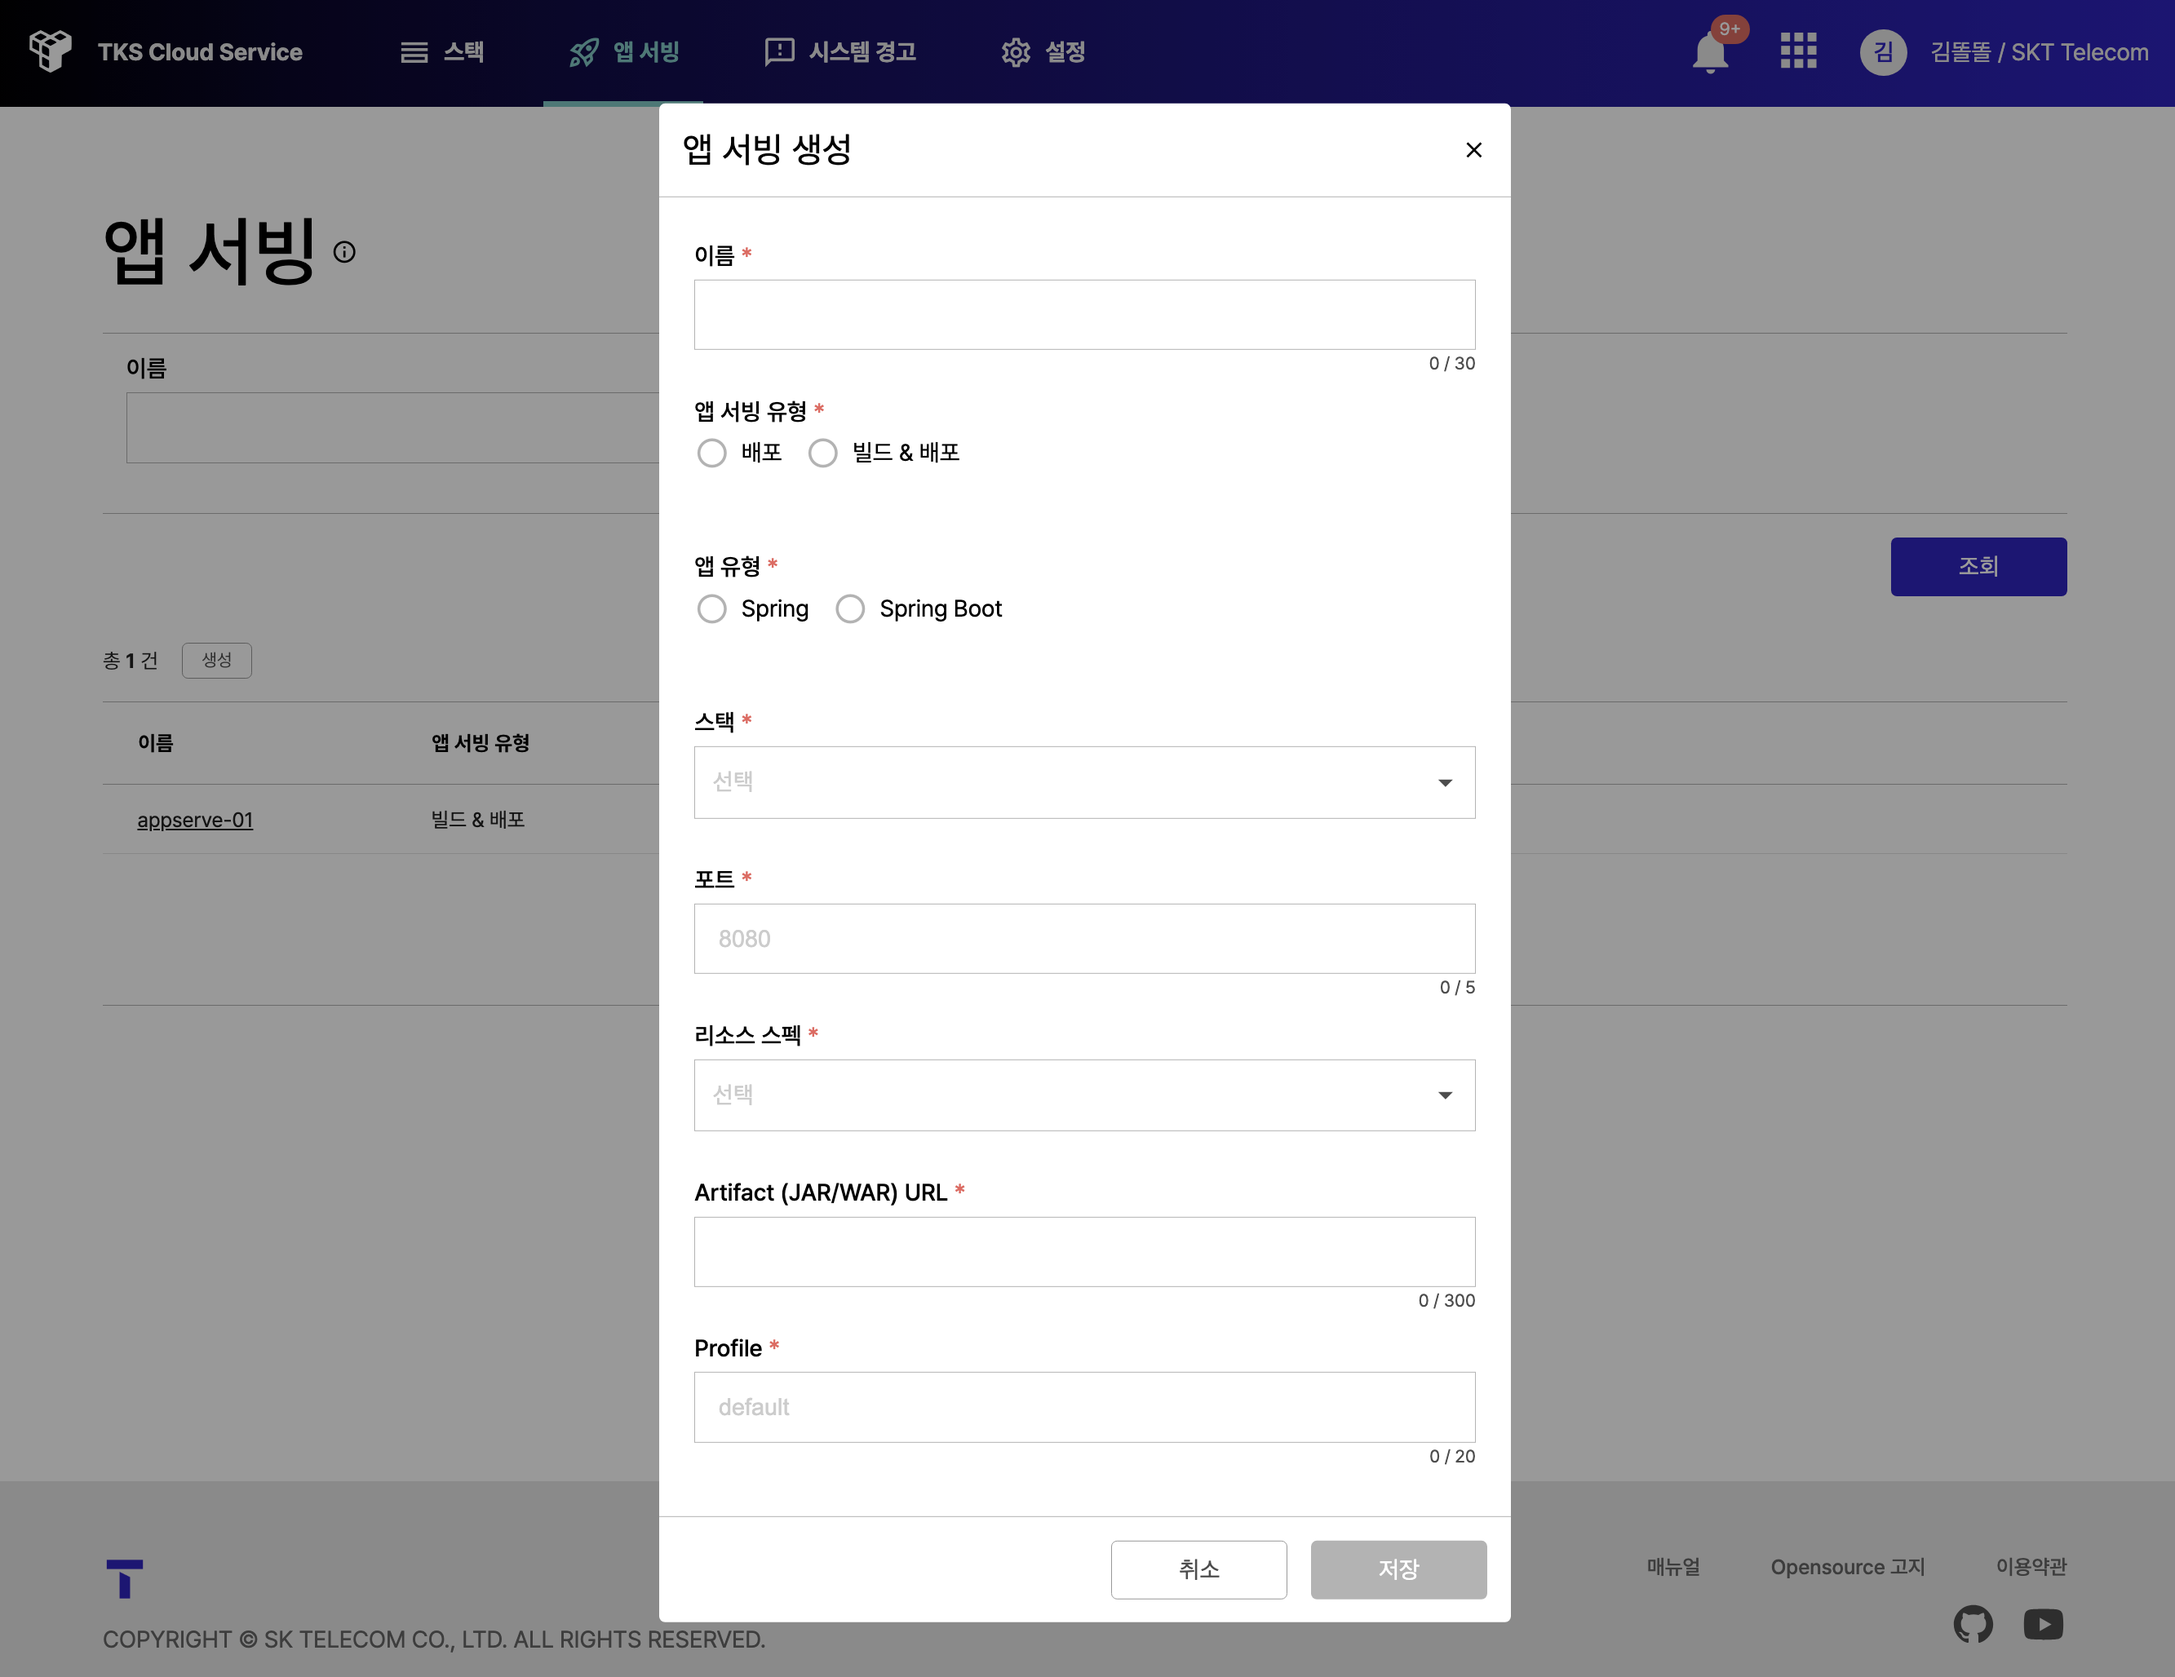
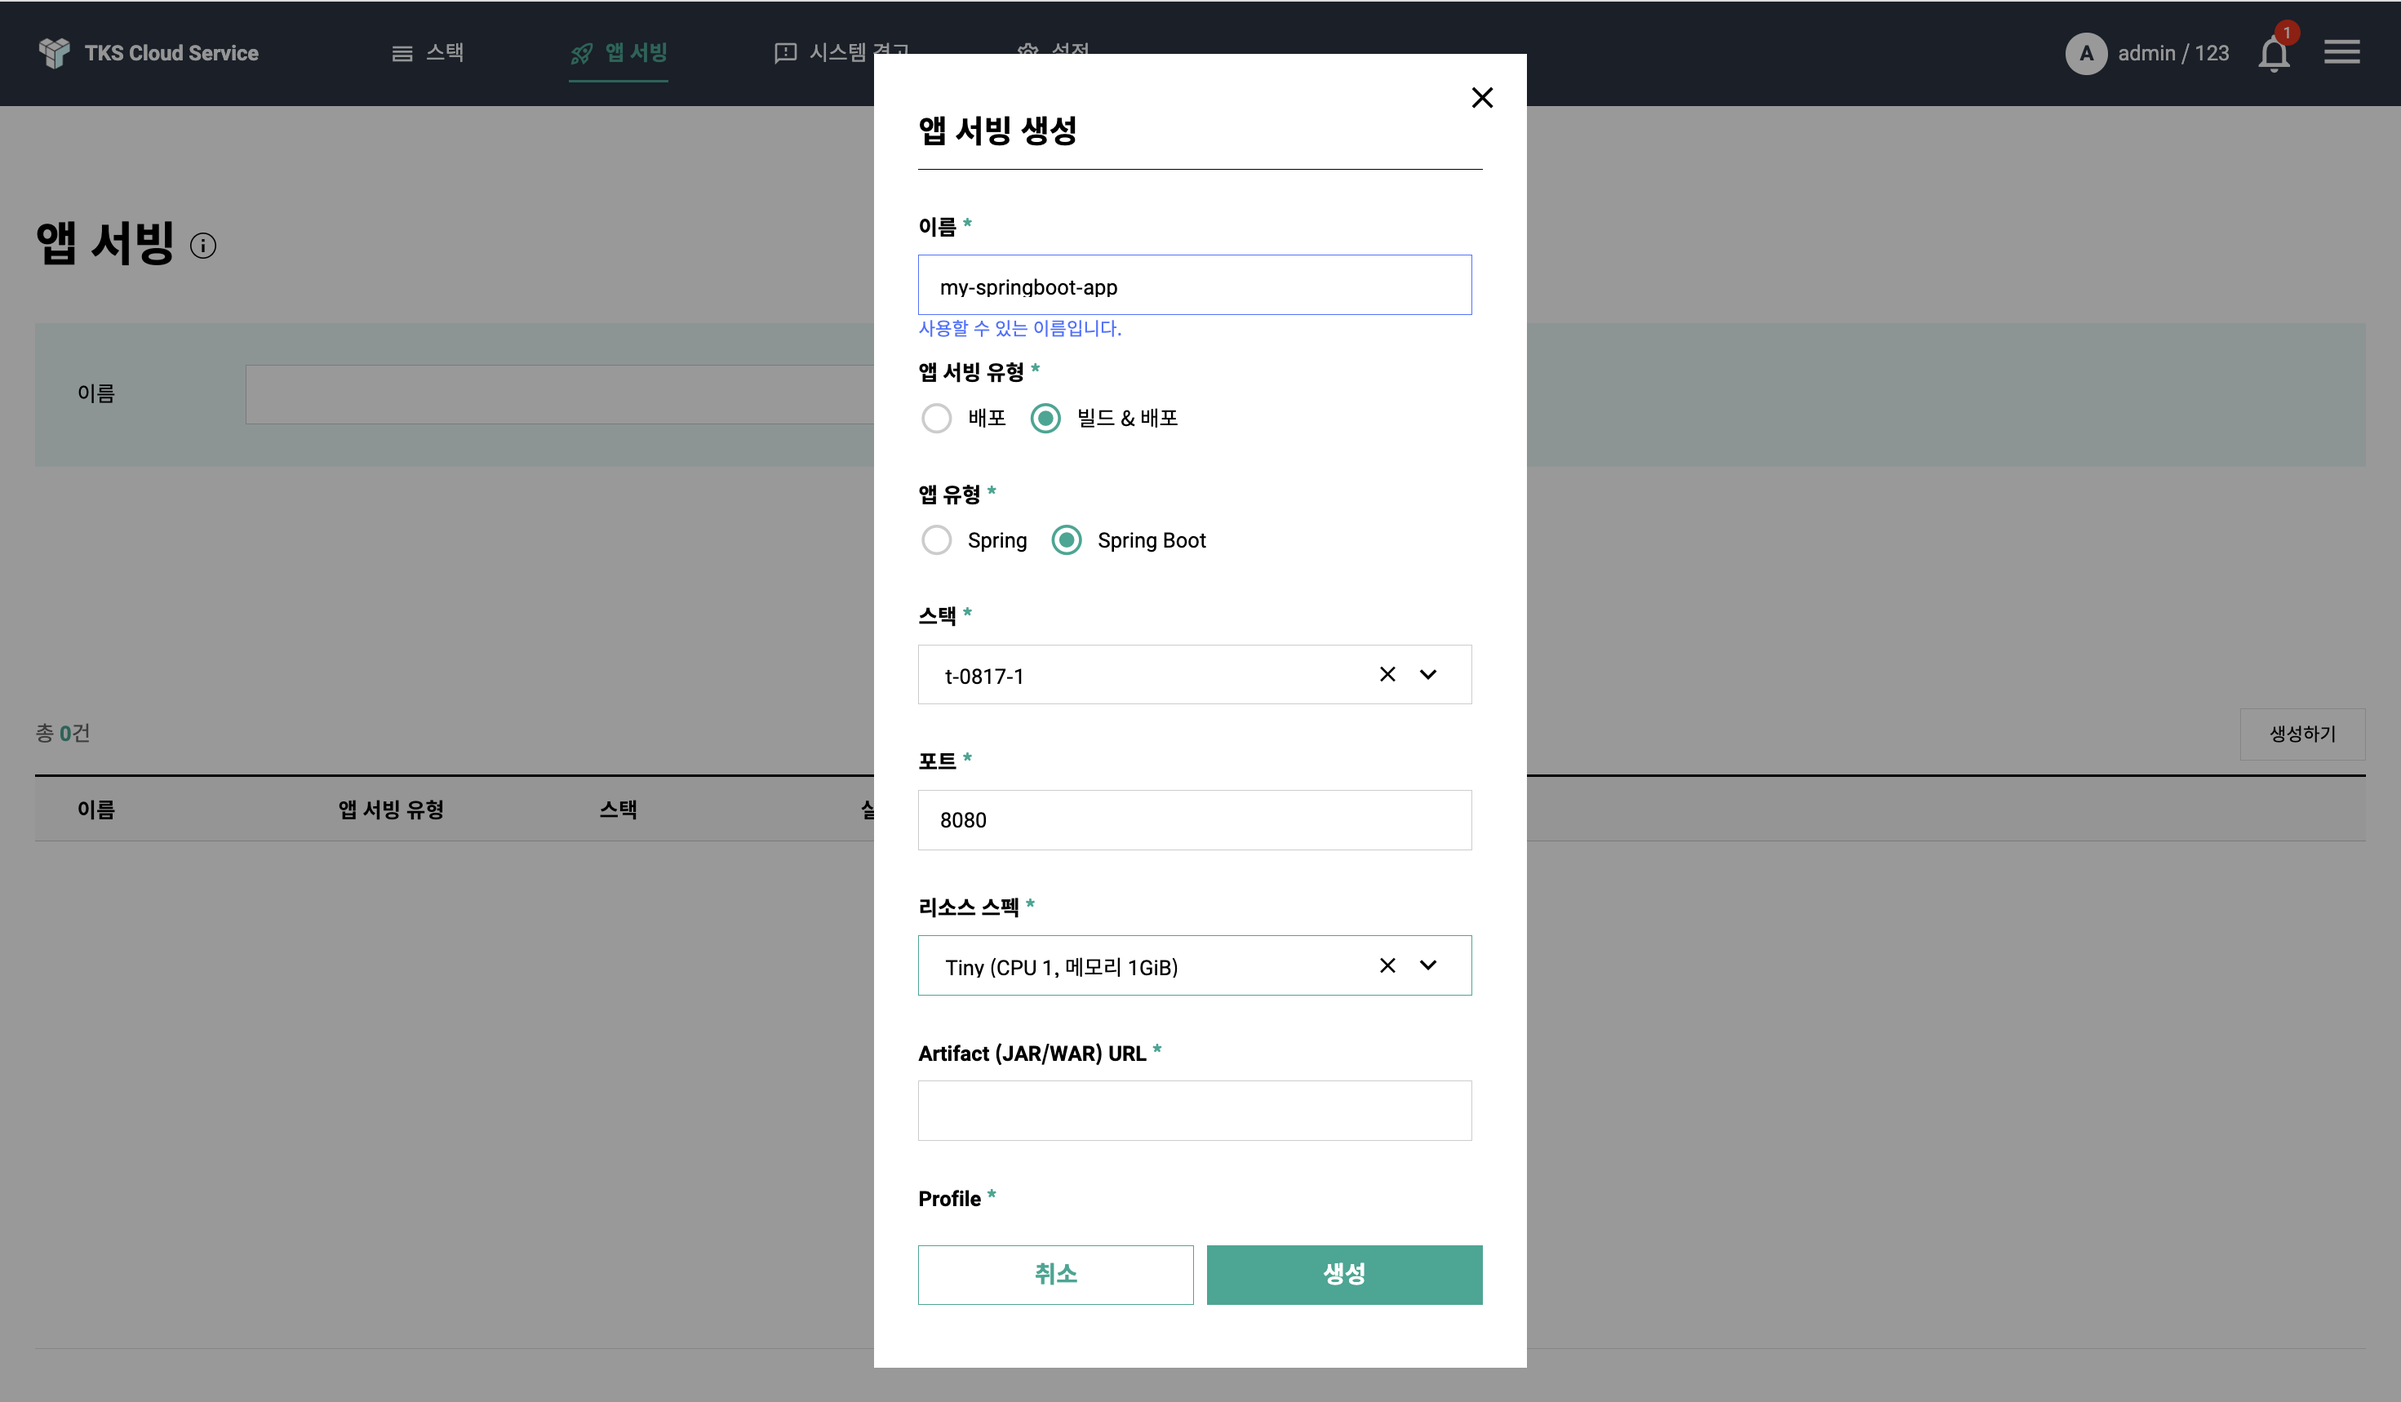
update appserving tutorial

diff --git a/docs/selfstudy/tks-quickstart-appserve.md b/docs/selfstudy/tks-quickstart-appserve.md
@@ -1,58 +1,55 @@
 # TKS 퀵스타트 (앱서빙)
 
-## **앱서빙생성 및 변경**
-   앱서빙은 기존 Legacy SW를 쉽고 빠르게 Kuberentes에 배포하기 위한 Tool 이다.
-   Legacy SW를 Kubernetes에 배포하기 위해서는 크게 아래와 같은 작업이 필요 하다.
+   앱서빙은 기존의 Legacy SW를 포함한 SW들을 쉽고 빠르게 Kuberentes에 배포하기 위한 서비스이다.
+   이러한 SW들을 Kubernetes에 배포하기 위해서는 크게 아래와 같은 작업이 필요 하다.
    
-   1. Legacy SW를 Container로 만들기
-   2. Kubernetes Resoruce로 Container 추상화 하기
-   3. 외부에 서비스 노출하기
+   1. 개발된 SW를 Container로 빌드하기
+   2. 빌드된 Container를 Kubernetes Resoruce로 추상화하기
+   3. 배포된 앱을 외부에 서비스로 노출하기
    
    언뜻 보면, 매우 간단한 일로 보이지만, Docker로 대표되는 container eco system에 대한 이해와 Kubernetes가 지향하는 서비스 프레임워크에 대한 이해가 필요하다. 이런식의 지식은 쉽게 교과서적으로 배우기 어렵기 때문에, 초보자들이 손쉽게 접근하기 쉽지 않다.
 
-   따라서 TKS는 기본 Legacy SW를 그동안 SKT가 보유한 노하우 기반, 자동으로 표준화된 형태로 Lift & Shift 해 줄 수 있는 Tool로 앱서빙을 제안한다.
-   앱서빙이 지원하는 Legacy SW는 Spring과 Spring Boot 두 가지를 지원한다. 이는 국내 Legacy Project의 대부분이 이 두가지 Framework을 사용하고 있기 떄문이다. 또한 앱서빙은 단순히 배포뿐 아니라 배포된 앱의 업그레이드를 지원한다.
+   따라서 TKS는 그동안 SKT가 축적한 노하우에 기반하여, 개발된 SW를 자동으로 표준화된 형태로 Lift & Shift 해 줄 수 있는 서비스로서 앱서빙을 제안한다.
+   현재 앱서빙은 Spring과 Spring Boot framework로 개발된 Java 앱을 지원한다. 이는 국내에서 진행되는 Project의 대부분이 이 두가지 framework을 사용하고 있기 떄문이다. 또한 앱서빙은 단순히 배포뿐 아니라 배포된 앱의 업그레이드 및 롤백 등 다양한 편의 기능을 지원한다.  
    
-   - **앱 배포**
+## **앱 배포**
 
-     처음 상단 매뉴의 앱서빙 매뉴로 들어가 생성  버튼을 누르면 아래와 같은 화면이 나온다.
+   처음 상단 매뉴의 앱서빙 매뉴로 들어가 생성  버튼을 누르면 아래와 같은 화면이 나온다.
      ![bootstrap](../assets/images/tks-app-c.png)
 
-     앱 서빙 유형은 앱서빙이 자동화 하는 수준이다. 어떤 Project의 경우 보안툴 설치등의 이유로 빌드 자체 파이프라인을 별도로 유지하는 경우가 있다. 따라서 빌드 없이 배포만 하는 옵션을 제공한다.
+   - 앱 서빙 유형은 앱서빙이 자동화하는 수준이다. 어떤 Project의 경우 보안툴 설치등의 이유로 빌드 파이프라인을 자체적으로 별도로 유지하는 경우가 있다. 따라서 빌드 없이 배포만 하는 옵션을 제공한다.
+   - 포트와 프로파일은 container 에 대한 설정으로, 포트는 개발된 앱이 실제로 listen하는 포트이며, 프로파일은 Spring/Spring Boot에서 사용되는 프로파일을 말한다.
+   - 리소스 스펙은 Kubernetes의 pod 가 사용할 CPU/메모리 등의 spec 이다.
+   - Spring이나 Spring Boot는 결국 Jar나 War file로 묶여서 최종적으로 배포되므로 인자로 Jar/War file이 위차한 URL를 받는다.  
+  
+   아래 그림은 Spring Boot SW를 최초로 빌드&배포를 수행하는 예제이다. 현재상태 영역에서 진행 상태를 확인할 수 있다.
+   ![bootstrap](../assets/images/tks-app-deploy-status.png)
+
+   배포가 완료되면 v1 으로 배포 이력이 관리되며, 배포된 앱으로 바로 접속할 수 있는 endpoint가 제공된다. 아래는 배포 완료된 화면이다. (react를 사용하여 개발되었다)
+
+   ![bootstrap](../assets/images/tks-app-v1.png)  
    
-     포트와 프로파일은 container 에 대한 설정으로 현쟈는 각 8080과 Default만 지원한다. 리소스 스펙은 Kubernetes의 pod spec 이다.
-     Spring이나 Spring Boot는 결국 Jar나 War file로 묶여서 최종적으로 Deliver됨으로 인자로 Jar/War file이 위차한 URL를 받는다.
+## **앱 업그레이드**
 
-     아래 그림은 Spring SW를 최초 빌드&배포롤 함께 하는 예제다. 현재상태 영역에서 진행 상태를 확인할 수 있다.
-     ![bootstrap](../assets/images/tks-app.png)
+   원하는 앱서빙 상세 화면에 들어가서 업그레이드 버튼을 누른다. 업그레이드부터는 배포전략을 선택할 수 있다. Artificat URL를 포함하여 변경할 항목을 입력하고 배포전략을 선택하여 업그레이드 절차를 수행한다. 자습서에서는 Blue/Grean 정책을 적용했다.
 
-      배포가 완료되면 v1 로 배포 이력이 관리되며, 배포된 앱으로 바로 접속할 수 있는 endpoint가 제공된다. 아래는 배포 완료된 화면이다.
+   ![bootstrap](../assets/images/tks-app-upgrade-modal.png)  
+  
+   업그레이드가 완료되면 아래 화면과 같이 이전버전과 신규버전을 서로 비교할 수 있는 서비스 URL이 제공된다. 따라서 결과물을 보고 판단 후 프로모션(신규 버전 사용) 또는 abort(이전 버전 사용)를 실시 할 수 있다.
 
-      아래 그림은 예제에서 설치된 앱 화면이다. (react로 개발되었다)
+   ![bootstrap](../assets/images/tks-app-bg-wait.png)  
+  
+   신버전 선택 후, 연결된 앱 URL에 접속하니 Vue를 사용한 신규 서비스가 업데이트 되었다.
 
-      ![bootstrap](../assets/images/tks-app-v1.png)
+   ![bootstrap](../assets/images/tks-app-v2.png)  
+  
+## **앱 롤백**
 
-   - **앱 업그레이드**
+   서비스를 막상 업그레이드하고 보니, 나중에 문제가 발생하여 이전 버전으로 롤백을 해야할 경우가 발생할 수 있다.
 
-       원하는 앱서빙 상세 화면에 들어가서 업그레이드 번튼을 누른다. 업그레이드 부터는 배로전략을 선택할 수 있다. 따라서 업그레이드할 Artificat이 저장된 URL를 선택하고 배포전략을 선택하여 업그레드 절차를 수행한다. 자습서에서는 Blue/Grean 정책을 적용했다.
-
-       ![bootstrap](../assets/images/tks-app-upgrade.png)
-
-       업그레이드 완료되면 아래 화면과 같이 이전버전과 신규버전을 서로 비교 할 수 있는 서비스 URL이 제공된다. 따라서 결과물을 보고 판단 후 프로모션(업그레이드 여부)를 실시 할 수 있다.
-
-       ![bootstrap](../assets/images/tks-app-promotion.png)
-
-       신버전 선택 후, 연결된 앱 URL에 접속하니 Vue를 사용한 신규 서비스가 업데이트 되었다.
-
-      ![bootstrap](../assets/images/tks-app-v2.png)
+   앱서빙은 자체적으로 배포 이력을 관리하므로, 언제든 원하는 시점으로 롤백 기능을 제공한다. 앱서빙 상세 화면 하단의 배포 히스토리에 현재까지 배포된 버전들이 나열되어있고, 원하는 버전 항목의 롤백 버튼을 클릭하면 해당 버전으로 롤백을 수행하게 된다.
 
 
-   - **앱 롤백**
+   아래는 롤백이 진행되는 화면이다.
 
-      서비스를 막상 업그레이드 하고 보니, 나중에 문제가 발생하여 이전 버전으로 롤백을 할 경우가 발생 할 수 있다.
-
-      앱서빙은 자체적으로 배포 이력을 관리하면, 롤백 기능을 제공한다. 앱서빙 상세 화면 하단의 배포 히스토리에 롤백 버튼이 생성되어 있다. 따라서 언젠던지 원하는 시점을 롤백 가능하다.
-
-      아래는 롤백이 진행되는 화면이다.
-
-      ![bootstrap](../assets/images/tks-app-rollback.png)
+   ![bootstrap](../assets/images/tks-app-rollback.png)
